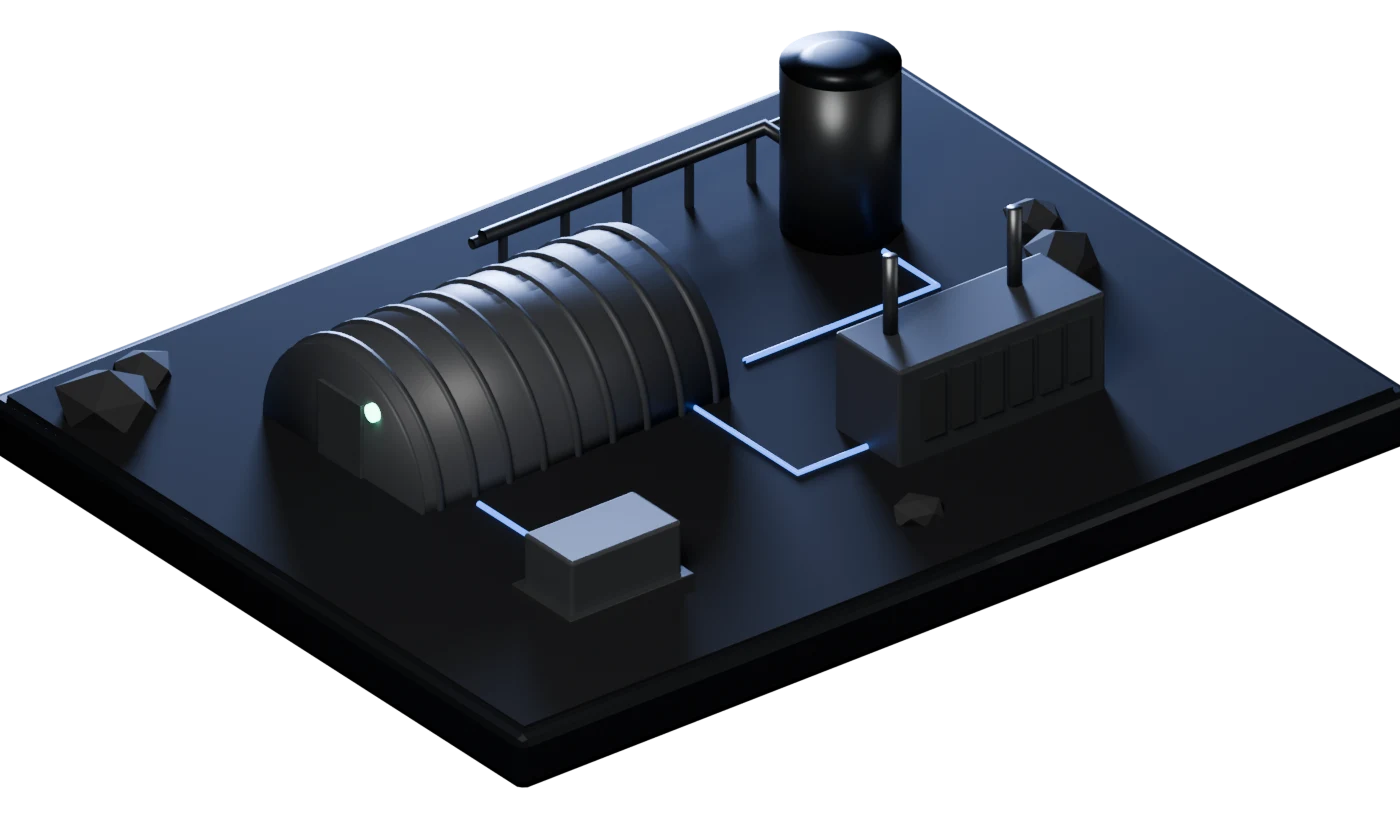
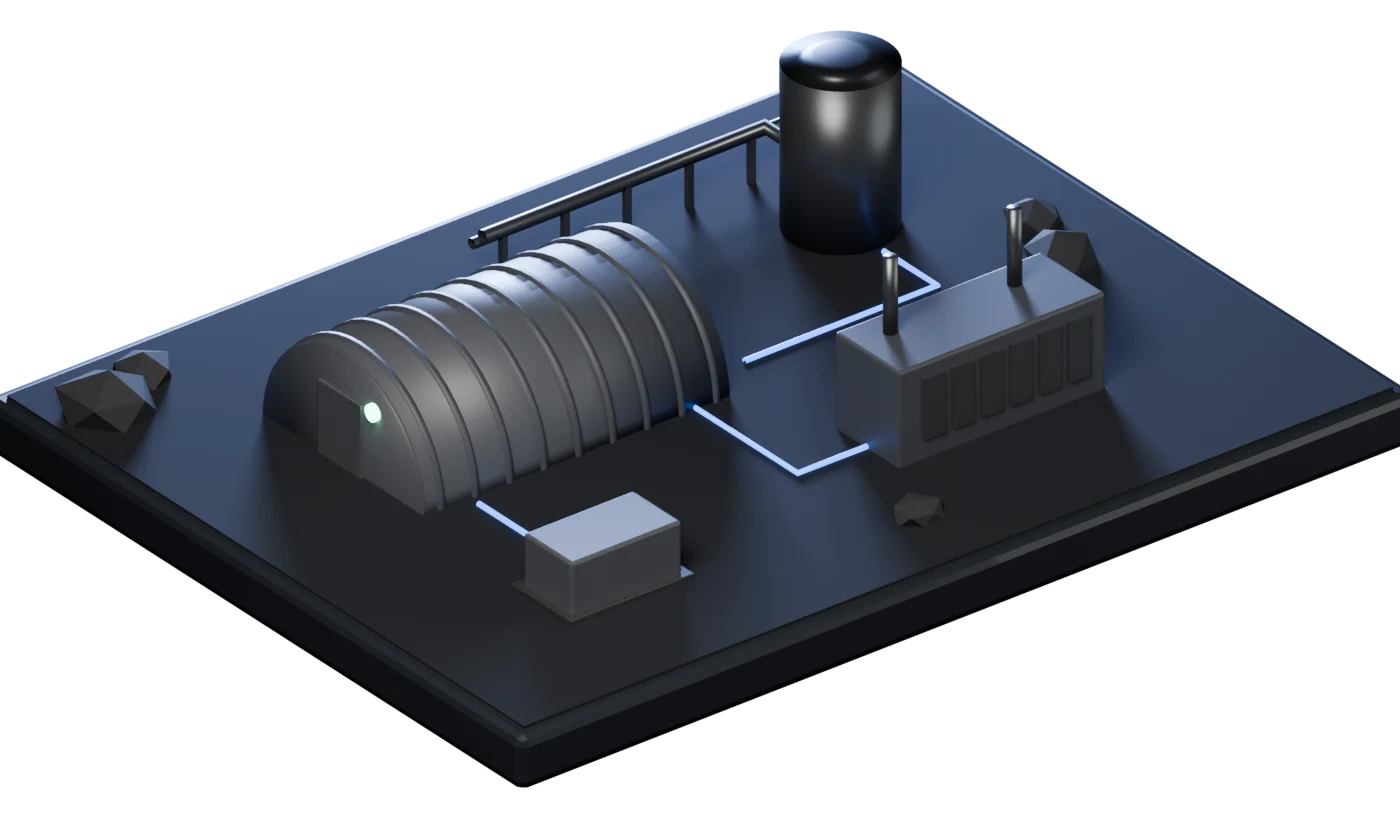
feat: animate signal pulses on the site miniatures (#15)

diff --git a/apps/website/src/react/components/home/HomePage.tsx b/apps/website/src/react/components/home/HomePage.tsx
@@ -1,8 +1,11 @@
 import plateWhite from "@origin89/brand/logos/plate-89-white.svg?url";
 import { type FormEvent, lazy, type ReactNode, Suspense, useEffect, useRef, useState } from "react";
 import cottage from "../../../assets/home/audience-3d-cottage.webp?url";
+import cottageSignals from "../../../assets/home/audience-3d-cottage-signals.json";
 import mine from "../../../assets/home/audience-3d-mine.webp?url";
+import mineSignals from "../../../assets/home/audience-3d-mine-signals.json";
 import telecom from "../../../assets/home/audience-3d-telecom.webp?url";
+import telecomSignals from "../../../assets/home/audience-3d-telecom-signals.json";
 import gerberBoard from "../../../assets/home/gerber-board-dim.webp?url";
 import gerberU7 from "../../../assets/home/gerber-u7.webp?url";
 import traceBoard from "../../../assets/home/trace-mask-board.webp?url";
@@ -99,6 +102,7 @@ function Statement() {
 const AUDIENCES = [
   {
     img: cottage,
+    signals: cottageSignals,
     alt: "Studio miniature of a cottage site: a cabin with lit windows, a ground-mounted solar rack, a woodshed with the generator and a propane tank, signal paths running to the cabin",
     title: "Cottages and camps",
     text: "A power wall built over the years, a generator in the shed and a fridge full of food. See it all from town.",
@@ -110,6 +114,7 @@ const AUDIENCES = [
   },
   {
     img: telecom,
+    signals: telecomSignals,
     alt: "Studio miniature of a remote telecom site: an equipment shelter, a lattice tower with antennas and a beacon, a genset and a fuel tank inside a fence",
     title: "Remote telecom shelters",
     text: "Batteries, a genset and a tower hours from the nearest road. Know the site’s state before the truck leaves.",
@@ -121,6 +126,7 @@ const AUDIENCES = [
   },
   {
     img: mine,
+    signals: mineSignals,
     alt: "Studio miniature of a mine utility site: an arched steel building, a generator container, a battery skid, a tank and a pipe rack",
     title: "Mining utilities",
     text: "Gensets, pumps and battery banks spread across a site. Planned: several Controllers per location, in one account.",
@@ -131,6 +137,36 @@ const AUDIENCES = [
     ],
   },
 ];
+
+type Signals = { width: number; height: number; paths: { name: string; points: number[][] }[] };
+
+// The render and its signal paths share one coordinate space, so the pulses stay on the
+// rendered lines at any size. Paths run toward the building, the way data flows.
+function Miniature({ img, alt, signals }: { img: string; alt: string; signals: Signals }) {
+  const { width, height, paths } = signals;
+  return (
+    <svg
+      className="mini"
+      viewBox={`0 0 ${width} ${height}`}
+      preserveAspectRatio="xMidYMax meet"
+      role="img"
+      aria-label={alt}
+      style={{ aspectRatio: `${width} / ${height}` }}
+    >
+      <image href={img} width={width} height={height} />
+      {paths.map((path, i) => {
+        const points = path.points.map((point) => point.join(",")).join(" ");
+        const delay = { animationDelay: `${-i * 0.9}s` };
+        return (
+          <g key={path.name}>
+            <polyline className="pulse glow" points={points} pathLength={100} style={delay} />
+            <polyline className="pulse" points={points} pathLength={100} style={delay} />
+          </g>
+        );
+      })}
+    </svg>
+  );
+}
 
 function Audiences() {
   return (
@@ -148,7 +184,7 @@ function Audiences() {
           {AUDIENCES.map((a) => (
             <article className="audience reveal" key={a.title}>
               <figure>
-                <img src={a.img} alt={a.alt} loading="lazy" />
+                <Miniature {...a} />
               </figure>
               <h3>{a.title}</h3>
               <p>{a.text}</p>

diff --git a/apps/website/src/react/styles/home.css b/apps/website/src/react/styles/home.css
@@ -94,8 +94,18 @@
 .home .audience figure { position: relative; margin: 0 0 28px; height: clamp(260px, 24vw, 360px); display: grid; place-items: end center;
     background-image: radial-gradient(circle, var(--o89-line) 1.2px, transparent 1.6px); background-size: 14px 14px;
     -webkit-mask-image: radial-gradient(75% 80% at 50% 60%, #000 50%, transparent 100%); mask-image: radial-gradient(75% 80% at 50% 60%, #000 50%, transparent 100%); }
-.home .audience figure img { max-width: 100%; max-height: 100%; width: auto; height: auto; object-fit: contain; transition: transform 1s var(--o89-ease); }
-.home .audience:hover figure img { transform: translateY(-6px); }
+.home .audience .mini { display: block; width: 100%; height: 100%; overflow: visible; transition: transform 1s var(--o89-ease); }
+.home .audience:hover .mini { transform: translateY(-6px); }
+/* Light pulses running along the rendered signal paths, toward the building. */
+.home .audience .pulse { fill: none; stroke: #e8efff; stroke-width: 9; stroke-linecap: round; stroke-linejoin: round; stroke-dasharray: 11 89; stroke-dashoffset: 100; animation: signal-flow 3.2s linear infinite; }
+.home .audience .pulse.glow { stroke: rgba(127, 156, 224, .5); stroke-width: 26; stroke-dasharray: 15 85; stroke-dashoffset: 102; }
+.home .audience:hover .pulse { animation-duration: 1.6s; }
+@keyframes signal-flow { to { stroke-dashoffset: 0; } }
+.home .audience .pulse.glow { animation-name: signal-flow-glow; }
+@keyframes signal-flow-glow { from { stroke-dashoffset: 102; } to { stroke-dashoffset: 2; } }
+@media (prefers-reduced-motion: reduce) {
+  .home .audience .pulse { animation: none; opacity: 0; }
+}
 .home .audience h3 { font-size: clamp(26px, 2.2vw, 32px); letter-spacing: -.03em; }
 .home .audience p { margin-top: 12px; color: var(--o89-muted); font-size: 16px; max-width: 38ch; }
 .home .audience ul { list-style: none; margin: 20px 0 0; padding: 16px 0 0; border-top: 1px solid var(--o89-line); display: grid; gap: 8px; color: var(--o89-muted); font-size: 14px; }
@@ -104,7 +114,7 @@
 @media (max-width: 980px) {
   .home .audiences { grid-template-columns: 1fr; gap: 56px; }
   .home .audience figure { height: auto; }
-  .home .audience figure img { max-height: 300px; }
+  .home .audience .mini { height: auto; max-height: 300px; }
 }
 .home .open { position: relative; }
 .home .open-grid { display: grid; grid-template-columns: repeat(12, 1fr); gap: 16px; align-items: start; }
@@ -488,7 +498,7 @@
 @media (prefers-reduced-motion: reduce) {
   html { scroll-behavior: auto; }
   .home .reveal, .home .reveal.pre { transition: none; opacity: 1; transform: none; }
-  .home .explorer-visual, .home .port-panel, .home .chip-box, .home .connect-visual img, .home .audience img { transition: opacity .2s linear; }
+  .home .explorer-visual, .home .port-panel, .home .chip-box, .home .connect-visual img, .home .audience .mini { transition: opacity .2s linear; }
   .home .port.is-active .pulse { animation: none; }
 }
 .home .film-toggle { color: var(--o89-fg); }
